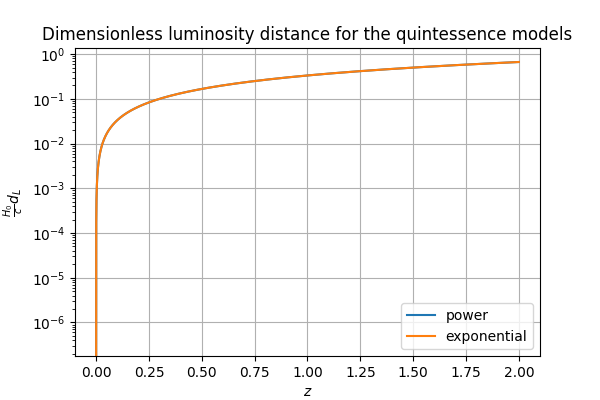
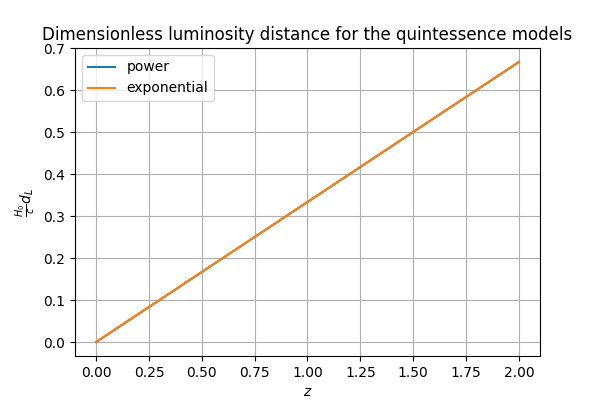
finished prob12?

diff --git a/Projects/Project 1/Source-code/problem12.py b/Projects/Project 1/Source-code/problem12.py
@@ -86,7 +86,7 @@ def plot_lumosity_distances(
             print(z[-1], d[-1])
             print()
 
-    plt.yscale("log")
+    # plt.yscale("log")
     plt.xlabel("$z$")
     plt.ylabel(r"$\frac{H_0}{c}d_L$")
     plt.title("Dimensionless luminosity distance for the quintessence models")
